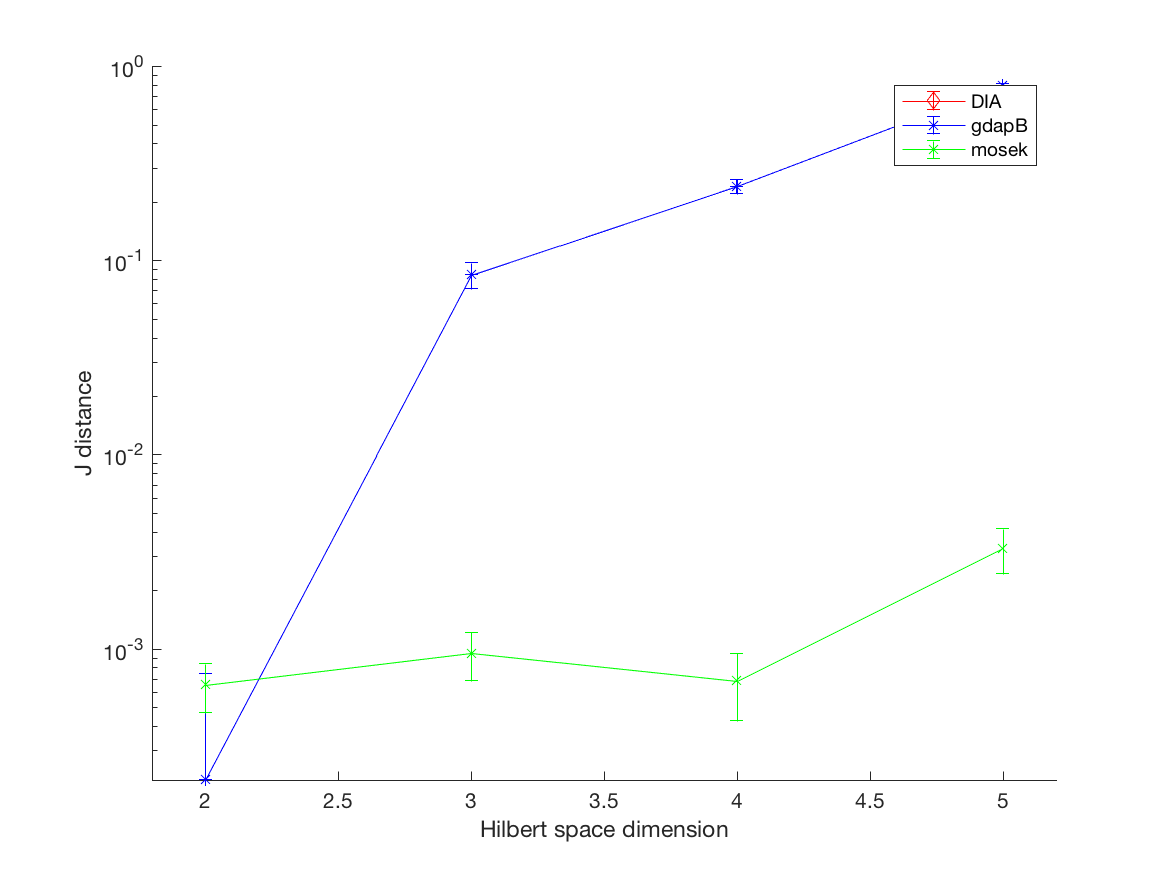
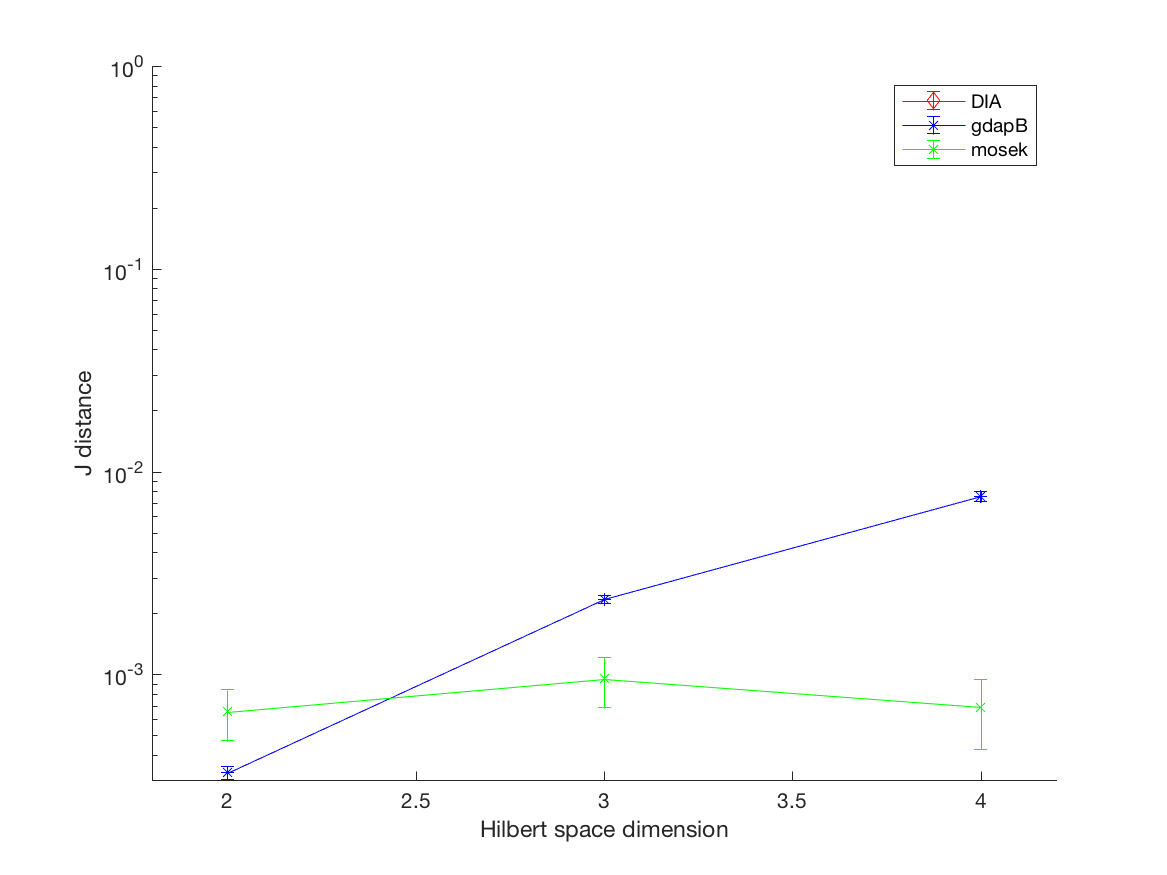
added a final projection step

diff --git a/gdapB.m b/gdapB.m
@@ -10,10 +10,10 @@ function [ choi_ml_vec,solution, costs ] = gdapB( A,n )
     for i=1:d
         e = zeros(1,d);
         e(i)  = 1;
-        B = kron(eye(d),e); % this is expensice
-        M = M + kron(B,B);  % this is expensive (kron)
+        B = kron(eye(d),e); 
+        M = M + kron(B,B);
     end
-    MdagM = M'*M; % NEED TO PASS THIS INTO CPTP PROJECT AND THAN AGAIN TO TP PROJECT
+    MdagM = M'*M; 
     
     
     choi_init = eye(d*d)/d;
@@ -21,26 +21,34 @@ function [ choi_ml_vec,solution, costs ] = gdapB( A,n )
     solution  = {choi_init};
 %     stepsize      = 1.0/(1e3*d);
     gamma = 1e-7;
+    mu = 1; % inverse learning rate?
     for i=1:5e3
-        i;
+%         i;
         costs(i)     = cost(A,n,solution{i});
-        D{i}  = CPTP_project(solution{i}-gradient(A,n,solution{i}), MdagM, M)-solution{i};
+        D{i}         = CPTP_project(solution{i}-(1/mu)*gradient(A,n,solution{i}), MdagM, M)-solution{i};
+%         sum(svd(D{i}))
+        if sum(svd(D{i}))<1e-4
+%         if norm(D{i})<1e-3
+% %             i
+            break
+        end
 %         if norm(D{i})<1e-10   
 %             break
 %         end
         alpha = 1;
         while cost(A,n,solution{i}+alpha*D{i}) > cost(A,n,solution{i}) +  gamma*alpha*(D{i}'*gradient(A,n,solution{i}))
-            alpha = 0.2 * alpha ;
+            alpha = 0.5 * alpha ;
         end
         solution{i+1} = solution{i} + alpha*D{i};
-        if i>20
-            if var(costs(i-20:i)) < 1e-5
-                break
-            end
-        end
+%         if i>1
+% %             if var(costs(i-10:i)) < 1e-13
+%             if norm(alpha*D{i})<1e-14
+%                 break
+%             end
+%         end
     end
 
-    choi_ml_vec = solution{end};
+    choi_ml_vec = CPTP_project(solution{end}, MdagM, M);
 end
 
 

diff --git a/CPTP_project.m b/CPTP_project.m
@@ -7,7 +7,7 @@ function [ projected_choi_vec ] = CPTP_project( choi_vec, MdagM, M  )
     p    = {0};
     q    = {0};
     y    = {0};
-    while GAP(end) >= 1e-15 
+    while GAP(end) >= 1e-12 
 %     for k=1:1000
 %         x{k+1}=PSD_project(TP_project(x{k}));     % ALTERNATING, seems to be fastest
 %         x{k+1}=TP_project(PSD_project(x{k}));     % alt - ALTERNATING, seems to be fastest
@@ -17,7 +17,7 @@ function [ projected_choi_vec ] = CPTP_project( choi_vec, MdagM, M  )
         x{k+1} = TP_project(y{k}+q{k}, MdagM, M);
         q{k+1} = y{k}+q{k}-x{k+1};
 %         GAP    = norm(x{end-1}-x{end});      
-        if k>2
+        if k>10
             GAP(k)  = norm(p{k-1}-p{k})^2+norm(q{k-1}-q{k})^2+2*p{k-1}'*(x{k}-x{k-1}+2*q{k-1}'*(y{k}-y{k-1}));
         end
         k = k + 1;

diff --git a/launch_solvers.m b/launch_solvers.m
@@ -9,7 +9,7 @@ cvx_solver mosek
 for method={'gdapB'}
     for d=2:3
         fprintf(char(10));
-        fprintf('%d ', d);
+        fprintf('%d :', d);
 
         dir = sprintf('./benchmarking_results/d%i',d);
 
@@ -23,6 +23,8 @@ for method={'gdapB'}
                         tic;
                         [choi_ml_vec,solution, costs] = gdapB(A,n);
                         elapsedTime = toc;
+                        semilogy(costs)
+                        hold on
                     case 'DIA'
                         tic;
                         [choi_ml_vec, solution, costs] = DIA(A,n);
@@ -37,6 +39,5 @@ for method={'gdapB'}
         end
     end
 end
-
 
 

diff --git a/gradient.m b/gradient.m
@@ -2,8 +2,10 @@ function [ g ] = gradient( A, n ,choi_vec)
 %UNTITLED9 Summary of this function goes here
 %   Detailed explanation goes here
     p   = A*choi_vec;
-    p   = abs(p/sum(p));
-    eta = n./p;
+%     p   = abs(p/sum(p));
+%     eta = n./p;
 %     g   = -(eta.'*A).';
-    g = -A'*eta;
+%     g = -A'*eta;
+    
+    g = -A'*(n./p);
 end

diff --git a/make_plots.m b/make_plots.m
@@ -1,6 +1,6 @@
 % read in 100 running times for each method, for each d.
 clear;close all;
-dmax = 5;
+dmax = 4;
 ensemble_size =10;
 gdapB_times = zeros(ensemble_size,dmax);
 mosek_times = zeros(ensemble_size,dmax);
